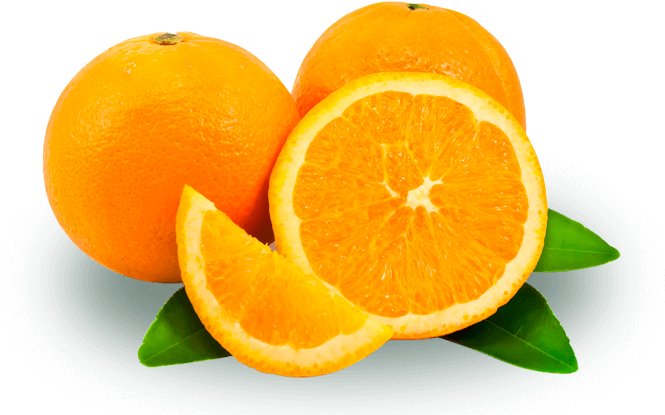
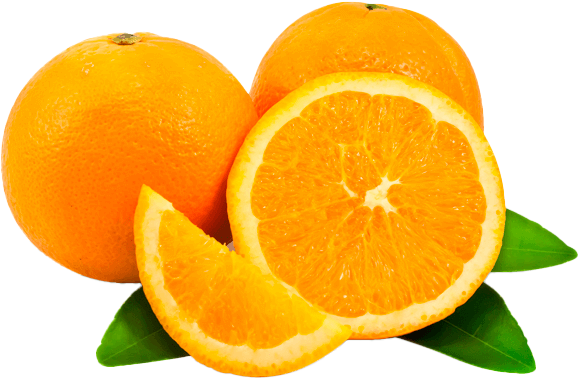
update fruit image sizing issue in carousel

diff --git a/src/Components/Catalog/Carousel.tsx b/src/Components/Catalog/Carousel.tsx
@@ -258,14 +258,16 @@ export default function Carousel() {
                         className="absolute -top-20 left-5 z-10 h-[100%]"
                       />
                       {item.fruit && (
-                        <img
-                          src={item.fruit}
-                          alt={item.name}
-                          className="absolute -top-2 -right-2 md:-right-10 h-[30%] md:h-[40%]"
-                          style={{
-                            opacity: isCurrent && !fading ? 1 : 0,
-                          }}
-                        />
+                        <div className="absolute -top-2 -right-2 flex justify-center items-center h-[30%] md:h-[40%] w-[40%] md:w-[55%]">
+                          <img
+                            src={item.fruit}
+                            alt={item.name}
+                            className="h-auto w-full"
+                            style={{
+                              opacity: isCurrent && !fading ? 1 : 0,
+                            }}
+                          />
+                        </div>
                       )}
 
                       {/* Product details */}
